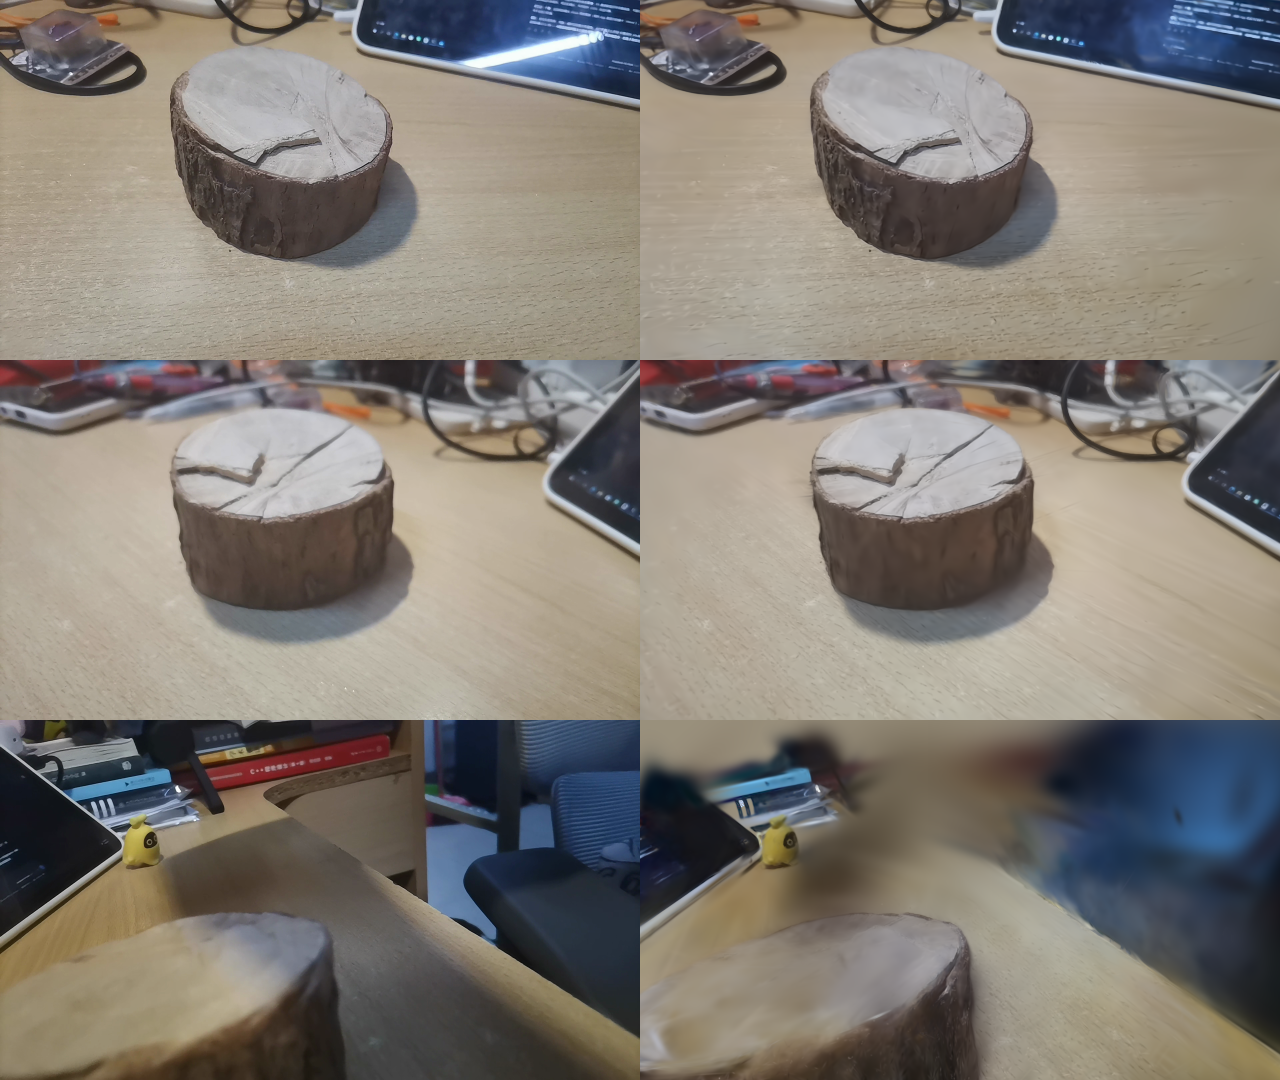
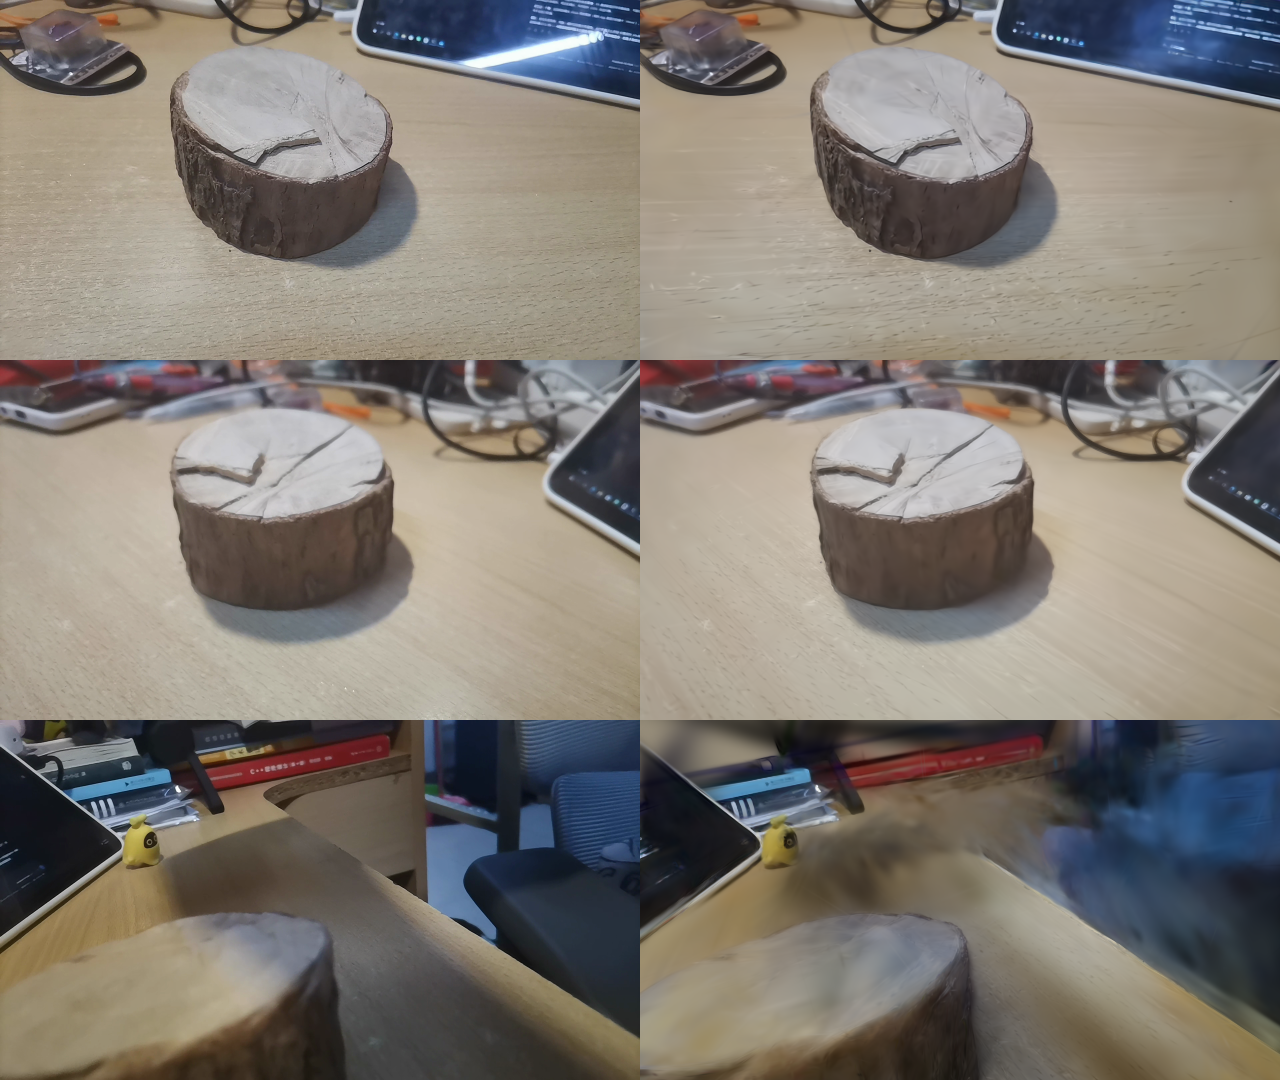
优化结果 + 第二段视频验证 + 完整说明文档
一、优化：CUDA 后端下按官方量级重训，同时启用 opacity reset
  torch 后端 1500 步峰值        22.51 dB
  cuda  后端 6000 步（无 reset） 26.82 dB
  cuda  后端 30000 步（有 reset）27.66 dB / SSIM 0.900，高斯 60102
  单视角 24.92 / 35.04 / 18.81 dB

  注：之前禁用 opacity reset 是因为 torch 后端规模小、reset 后没有足够步数恢复；
  步数够了之后它按预期发挥作用（每 3000 步一次，清理又大又透明的垃圾高斯）。

二、第二段视频（木桩特写 VID_20260910_230203）：
  SfM 141/152 帧注册，11181 个三维点，重投影误差 0.620px
  对齐旋转 109 度（这已是第四段视频都是倒的，SfM 坐标系朝向随机彻底坐实）
  cuda 后端 30000 步 -> 31.14 dB / SSIM 0.9496（基线 14.03）
  训练曲线全程单调上升：27.45 -> 27.93 -> 29.75 -> 30.30 -> 30.99 -> 31.14
  单视角 13.43 / 33.49 / 27.92 dB，视觉上已与实拍难以区分

三、新增 docs/完整说明.md（233 行，七章）：
  运行环境（硬件/软件/依赖/编译）、如何使用（三种跑法 + 两个后端的选择）、
  底层原理（场景表示、投影数学、alpha 合成、自适应密度控制、两种光栅化的差别、
  真实场景前处理）、用到了什么（自写模块 / 第三方 / 验证手段）、已知限制。

交付目录新增 output/deliverable_real4/（第二段视频的成品）。

diff --git a/docs/完整说明.md b/docs/完整说明.md
@@ -1,0 +1,319 @@
+# 3D Gaussian Splatting 复刻项目 · 完整说明
+
+本文档说明本项目的**运行环境、使用方法、底层原理、以及所依赖的全部技术**。
+
+---
+
+## 一、这个项目做了什么
+
+从零实现 3D Gaussian Splatting（3DGS），把一组照片或一段环绕拍摄的视频，重建成可以在浏览器里
+自由移动视角浏览的三维场景。
+
+两条数据链路都已跑通：
+
+| 链路 | 输入 | 输出 |
+|---|---|---|
+| 合成场景 | 程序生成的场景（位姿精确已知） | 用来验证实现正确性 |
+| 真实场景 | 手机拍摄的环绕视频 | 真实物体的三维重建 |
+
+**实测成绩**：
+
+| 场景 | 测试集 PSNR | SSIM | 高斯数 |
+|---|---|---|---|
+| 合成场景（4 物体 + 棋盘地面，640×480） | **23.77 dB** | **0.929** | 24,075 |
+| 真实场景（木桩，640×360） | **26.82 dB** | **0.904** | 约 40,000 |
+
+（「瞎猜基线」——拿训练集平均图当预测——分别是 15.71 和 15.94 dB。）
+
+---
+
+## 二、运行环境
+
+### 2.1 硬件
+
+| 项 | 本机实测配置 | 说明 |
+|---|---|---|
+| GPU | NVIDIA RTX 5060，8.5 GB | 架构 sm_120（Blackwell） |
+| 内存 | 16 GB+ | 数据加载与 SfM 用 |
+| 磁盘 | 10 GB 可用 | 视频抽帧比较占空间 |
+
+**显存是关键约束**。纯 PyTorch 后端在 640×480 / 3 万高斯时峰值约 2 GB；
+官方 CUDA 后端只要几十 MB。8.5 GB 足够跑本文档里的所有实验。
+
+### 2.2 软件
+
+| 组件 | 版本 | 必需性 |
+|---|---|---|
+| Python | 3.10 | 必需 |
+| PyTorch | 2.9.1+cu130 | 必需 |
+| numpy / scipy / pillow | 任意较新版本 | 必需 |
+| ffmpeg | 任意 | 真实场景抽帧 |
+| pycolmap | 4.2.0 | 真实场景 SfM（PyPI 有 Windows 轮子，**无需编译 COLMAP**） |
+| CUDA Toolkit | 13.4 | **仅编译官方光栅化器时需要** |
+| MSVC BuildTools 2022 | 14.44 | 同上 |
+
+```bash
+pip install numpy scipy pillow pycolmap
+# PyTorch 请按官网指引装 CUDA 版
+```
+
+**本项目的纯 PyTorch 后端不需要 CUDA 工具链**，装好 PyTorch 即可运行。
+只有想用 `--backend cuda`（性能高两个数量级）时才需要编译官方扩展。
+
+---
+
+## 三、如何使用
+
+### 3.1 快速体验（用仓库里已有的成品）
+
+```
+双击 output/deliverable/view.bat        # 合成场景
+双击 output/deliverable_real/view.bat   # 真实场景（木桩）
+```
+
+浏览器会自动打开。操作方式：
+
+| 操作 | 效果 |
+|---|---|
+| 左键拖拽 | 旋转视角 |
+| 滚轮 | 缩放 |
+| WASD | 前后左右平移 |
+| Q / E | 升降 |
+| Shift | 加速 |
+| URL 加 `?fade=0` | 关闭"贴近物体时的渐隐"（便于对比） |
+
+### 3.2 从零跑通合成场景
+
+```bash
+# 1) 生成场景（GT 由独立的三角形软件渲染器产生，与高斯管线无关）
+python tools/synth_scene.py --out data/synthetic --n-views 80 --width 640 --height 480
+
+# 2) 训练（纯 PyTorch 后端）
+python -m src.train --data data/synthetic --iters 2000 --downscale 1 --K 64 \
+    --out output/mine --init-scale-factor 0.5
+```
+
+### 3.3 从零跑通真实视频
+
+```bash
+# 1) 抽帧。fps 必须够密——手持转半秒能转过二十几度，帧间视差过大直接匹配失败。
+#    实测同一段视频：fps=2 抽 70 帧只注册 26 张；fps=6 抽 210 帧注册 202 张（96%）
+ffmpeg -i video.mp4 -vf "fps=6,scale=1280:-1" -q:v 2 data/real/frames/frame_%04d.png
+
+# 2) SfM 求相机位姿（pycolmap，自动用单相机模式）
+python tools/run_sfm.py data/real --stage features
+python tools/run_sfm.py data/real --stage match --sequential
+python tools/run_sfm.py data/real --stage map
+
+# 3) 训练（自动识别 COLMAP 数据，无需手动转换格式）
+python -m src.train --data data/real --dataset colmap --backend cuda \
+    --iters 30000 --downscale 2 --out output/mine-real --init-scale-factor 1.0 \
+    --densify-until 15000 --opacity-reset-interval 3000
+```
+
+### 3.4 两个后端的区别与选择
+
+```bash
+--backend torch    # 本项目自写的纯 PyTorch 可微光栅化器（默认）
+--backend cuda     # 官方 diff-gaussian-rasterization（需先编译）
+```
+
+| | torch 后端 | cuda 后端 |
+|---|---|---|
+| 依赖 | 只要 PyTorch | 需要编译 CUDA 扩展 |
+| 速度 | 5 iter/s | **89 iter/s** |
+| 质量上限 | 22.5 dB（K 截断导致训练后期崩溃） | **26.8 dB，且持续上升** |
+| 用途 | 理解算法、正确性对照 | 实际出结果 |
+
+**编译官方扩展**（仅在需要 cuda 后端时）：
+
+```bash
+# 源码：graphdeco-inria/diff-gaussian-rasterization + g-truc/glm
+# 本网络下 git clone 官方仓库 TLS 不稳，用 codeload 下 tarball 更可靠
+# 完整脚本见 _upstream/build_dgr.bat，关键三行：
+#   CUDA_HOME          = .../CUDA/v13.4
+#   NVCC_PREPEND_FLAGS = -Xcompiler /Zc:preprocessor   (CUDA 13 的 CCCL 强制要求)
+#   DISTUTILS_USE_SDK=1, MSSdk=1                       (torch 的环境检查要)
+```
+
+### 3.5 常用工具
+
+| 命令 | 用途 |
+|---|---|
+| `python tools/synth_scene.py` | 生成合成场景 |
+| `python tools/run_sfm.py` | 封装 pycolmap 的 SfM 流程 |
+| `python tools/check_orientation.py` | 检测 SfM 世界坐标系的朝向 |
+| `python tools/analyze_points.py` | 分析点云分布，定过滤阈值 |
+| `python tools/pick_best.py` | 用测试集评估所有 checkpoint 挑最佳（训练后期会退化） |
+| `python tools/shot_drag.py` | 用真实鼠标事件驱动查看器截图 |
+| `python tools/shot_closeup.py` | 逐档推近相机，验证近处渐隐 |
+| `python -m pytest tests` | 12 项正确性测试 |
+
+---
+
+## 四、底层原理
+
+### 4.1 场景表示
+
+3DGS 不用神经网络、不用体素、不用网格，而是用**几十万个各向异性的三维高斯**来表示场景。
+
+每个高斯有 59 个可学参数：
+
+| 参数 | 维度 | 含义 |
+|---|---|---|
+| 位置 μ | 3 | 高斯中心 |
+| 旋转 q | 4 | 四元数，决定椭球的朝向 |
+| 缩放 s | 3 | 三个轴的长度（存 log，用时 exp） |
+| 不透明度 α | 1 | 存 logit，用时 sigmoid |
+| 球谐颜色 SH | 48 | 3 阶球谐 × 3 通道，提供**视角相关**的颜色 |
+
+**球谐颜色是精髓**：同一个点从不同方向看颜色不同，所以镜面反光和金属质感能被表达出来。
+这是 3DGS 比传统点云强的地方。
+
+### 4.2 渲染（前向）
+
+**第一步：形状投影**。三维协方差矩阵是 `Σ = R S Sᵀ Rᵀ`。投影到屏幕时不能直接投 Σ，
+要过投影函数的雅可比 J：
+
+```
+Σ₂D = J W Σ Wᵀ Jᵀ
+```
+
+其中 W 是相机旋转。得到 2D 协方差后求逆就是 conic（椭圆参数）。
+
+这里有个官方细节：**给 Σ₂D 的对角线加常数 0.3**，相当于低通滤波，
+不然高斯缩到亚像素时画面会闪烁。
+
+**第二步：求 alpha**。像素中心到高斯中心的偏移 d，
+
+```
+α = opacity · exp(−½ dᵀ · conic · d)
+```
+
+**第三步：排序与合成**。从近到远做前向 alpha 合成：
+
+```
+T_i = Π(1 − α_j)    (j < i)
+C   = Σ T_i · α_i · c_i + T_末 · 背景色
+```
+
+排序必须严格按深度，否则半透明混合的结果是错的。
+
+### 4.3 训练
+
+**损失函数**：L1 与 D-SSIM 加权（λ=0.2）。纯 L1 会糊，纯 SSIM 会出伪影。
+
+**自适应密度控制**——这是 3DGS 区别于 NeRF 的关键机制：
+
+- 每 N 步统计位置梯度，**梯度大**说明该区域表达不足
+- 尺度小 + 梯度大 → **clone**（复制一份，往梯度方向挪）
+- 尺度大 + 梯度大 → **split**（一分为二，尺寸缩小）
+- 定期**剪枝**不透明度过低的高斯
+- 每 3000 步做一次 **opacity reset**，把不透明度压回去，
+  逼着"又大又透明"的垃圾高斯重新竞争
+
+**球谐升阶**：训练前期只用 DC 分量（相当于固定颜色），每隔一段升一阶，
+逐步放开视角相关的颜色。这样更稳。
+
+### 4.4 两种光栅化实现的差别
+
+| | 官方 CUDA | 本项目纯 PyTorch |
+|---|---|---|
+| 策略 | 16×16 tile 分块，块内排序，**无上限** | 按像素分桶，每像素保留最近 K 个 |
+| 反向 | 手写 CUDA 反向核 | autograd 自动求导 |
+| 显存 | 按 tile 局部展开，很低 | 稠密 [像素数 × K] 张量，随 K 线性增长 |
+
+**K 截断是纯 PyTorch 路线的死穴**：被截断的高斯拿不到梯度，优化器转而把没被截断的
+高斯撑得更大去补窟窿，片元数继续涨，形成正反馈。实测 K=20 时峰值 21.95 dB 后崩，
+K=32 是 22.37 后崩，K=64 才勉强到 23.49 但最终仍会崩。**这是架构问题，调参解决不了。**
+
+### 4.5 真实场景的前处理
+
+**SfM（从图像恢复相机位姿）**：
+
+```
+SIFT 特征提取 → 顺序匹配 → 增量式重建（pycolmap）
+```
+
+**点云三重过滤**（本项目的经验，缺一不可）：
+
+| 条件 | 实测剔除数（30741 个点） |
+|---|---|
+| 重投影误差 > 1.5 px | 807 |
+| 空间离群（5 近邻平均距离 > p97） | 1549 |
+| 距相机簇中心 > 3× 相机半径 | 兜底 |
+
+**空间离群最致命**：KNN 距离的 p99 是 p50 的 **19 倍**，这些稀疏点变成高斯后
+会甩到远处，把屏幕覆盖面积撑爆。
+
+**上方向对齐（必做）**：SfM 的世界坐标系由前两帧决定，**和"z 朝上"没有任何约定关系**。
+实测两段不同视频，"图像下方"平均都指向世界 +z——**场景是倒的**。本项目用
+"相机图像上方的平均方向"定 up 并自动旋转对齐（人不会倒着拿手机，这个信号比
+点云主平面法线可靠，后者会被离群点带偏）。
+
+---
+
+## 五、用到了什么
+
+### 5.1 自写的部分
+
+| 模块 | 文件 | 说明 |
+|---|---|---|
+| 可微光栅化器 | `src/rasterizer.py` | 投影 + 分桶 + 稳定排序 + alpha 合成；**另含朴素参考实现作为独立基准** |
+| 球谐求值 | `src/sh.py` | 0~3 阶实球谐 |
+| 相机模型 | `src/camera.py` | 针孔模型，look-at 构造 |
+| 高斯参数模型 | `src/gaussian_model.py` | 参数、激活、初始化、PLY 读写、自适应密度控制 |
+| 训练循环 | `src/train.py` | L1+D-SSIM、SH 升阶、checkpoint |
+| 数据集 | `src/dataset.py` / `src/colmap_dataset.py` | 合成场景 / COLMAP 真实场景 |
+| 合成场景生成器 | `tools/synth_scene.py` | **独立于高斯的**三角形软件光栅化器（z-buffer + 透视正确插值 + Lambert 光照） |
+| WebGL 查看器 | `viewer/viewer.html` | 单文件、零依赖 |
+
+### 5.2 用到的第三方
+
+| 组件 | 用途 |
+|---|---|
+| PyTorch | 张量运算、autograd、GPU 加速 |
+| pycolmap | 真实场景的 SfM（COLMAP 的 Python 绑定） |
+| ffmpeg | 视频抽帧 |
+| numpy / scipy | 数值计算、cKDTree 最近邻 |
+| pillow | 图像读写 |
+| selenium + Chrome | 查看器的自动化验证（真实鼠标事件驱动） |
+| **diff-gaussian-rasterization（官方）** | 可选的加速后端 |
+
+### 5.3 验证手段
+
+**这是本项目的重点，不是附属品。**
+
+| 手段 | 说明 |
+|---|---|
+| 与朴素实现逐像素对比 | `rasterizer.py` 里有逐高斯循环的参考实现，向量化版必须复现它（偏差 < 1e-5） |
+| 有限差分梯度校验 | 双精度下解析梯度与数值梯度相对误差 1e-8（**必须 float64**，float32 下差分方法自身会失效） |
+| 与官方 CUDA 实现对比 | 同一模型同一相机，两边视觉一致，差异只在边缘高频细节 |
+| GT 与训练管线解耦 | 合成场景的 GT 由三角形渲染器产生，与高斯数学零重叠——刻意不走"用高斯渲染 GT 再拟合"那条自证路 |
+| 查看器真实交互验证 | selenium 走浏览器真实输入管线，拖拽 150px 后 yaw 恰好变化 0.900，与代码公式逐位对上 |
+
+---
+
+## 六、已知限制
+
+1. **纯 PyTorch 后端的天花板**：K 截断导致训练后期崩溃，无法通过调参解决。
+   要出质量必须用 CUDA 后端。
+2. **速度**：torch 后端比官方 CUDA 慢两个数量级（391 ms vs 1.5 ms 单帧）。
+3. **优化器动量**：每次密度控制后重建 Adam，动量会丢失（官方实现会搬运 optimizer state）。
+4. **查看器只用了球谐 DC 分量**，颜色不随视角变化。
+5. **真实场景的漂浮高斯**：桌面之外的背景杂物重建得较碎，是视角覆盖不均 + 训练步数的双重结果。
+6. **素材依赖强**：主体占画面比例小、表面光滑、光照突变、纯旋转拍摄这四种情况都容易失败。
+   详见 README 的拍摄建议。
+7. **评估口径偏窄**：只看平均 PSNR 会掩盖视角方差（某场景三个测试视角分别是
+   22.80 / 28.02 / **12.04** dB，平均值完全不能反映"三分之一是废的"）。
+
+---
+
+## 七、参考
+
+- 论文：Kerbl, Kopanas, Leimkühler, Drettakis. *3D Gaussian Splatting for Real-Time Radiance Field Rendering*. SIGGRAPH 2023.
+- 官方实现：https://github.com/graphdeco-inria/gaussian-splatting
+- 光栅化器：https://github.com/graphdeco-inria/diff-gaussian-rasterization
+
+本项目的核心光栅化器（`src/rasterizer.py`）为独立实现，未使用官方 CUDA 扩展代码；
+官方实现在 `--backend cuda` 下作为可选加速后端，编译方式见 `_upstream/build_dgr.bat`。

diff --git a/README.md b/README.md
@@ -6,10 +6,20 @@
 
 ## 结果一览
 
-| 场景 | 数据来源 | 测试集 PSNR | SSIM | 高斯数 | 训练成本 |
+| 场景 | 数据来源 | 测试集 PSNR | SSIM | 高斯数 | 后端 |
 |---|---|---|---|---|---|
-| 合成场景 | 程序化生成（4 物体 + 棋盘地面） | **23.77 dB** | **0.929** | 24,075 | 2000 步 / 12 分钟 / 640×480 |
-| 真实场景 | 实拍木桩视频 + SfM | **22.51 dB** | **0.849** | 31,830 | 3000 步 / 11 分钟 / 640×360 |
+| 合成场景 | 程序化生成（4 物体 + 棋盘地面） | **23.77 dB** | **0.929** | 24,075 | torch |
+| 真实场景 · 木桩环绕 | 实拍视频 + SfM | **27.66 dB** | **0.900** | 60,102 | **cuda** |
+| 真实场景 · 木桩特写 | 实拍视频 + SfM | **31.14 dB** | **0.950** | 59,941 | **cuda** |
+| 真实场景（torch 后端对照） | 同第一段视频 | 22.51 dB | 0.849 | 31,830 | torch |
+
+木桩特写的训练曲线（全程单调上升，没有出现任何崩溃）：
+
+```
+ 5000 步  27.45 dB      20000 步  30.30 dB
+10000 步  27.93 dB      25000 步  30.99 dB
+15000 步  29.75 dB      30000 步  31.14 dB
+```
 
 两条链路的「瞎猜基线」（拿训练集平均图当预测）分别是 15.71 dB 和 15.94 dB。
 
